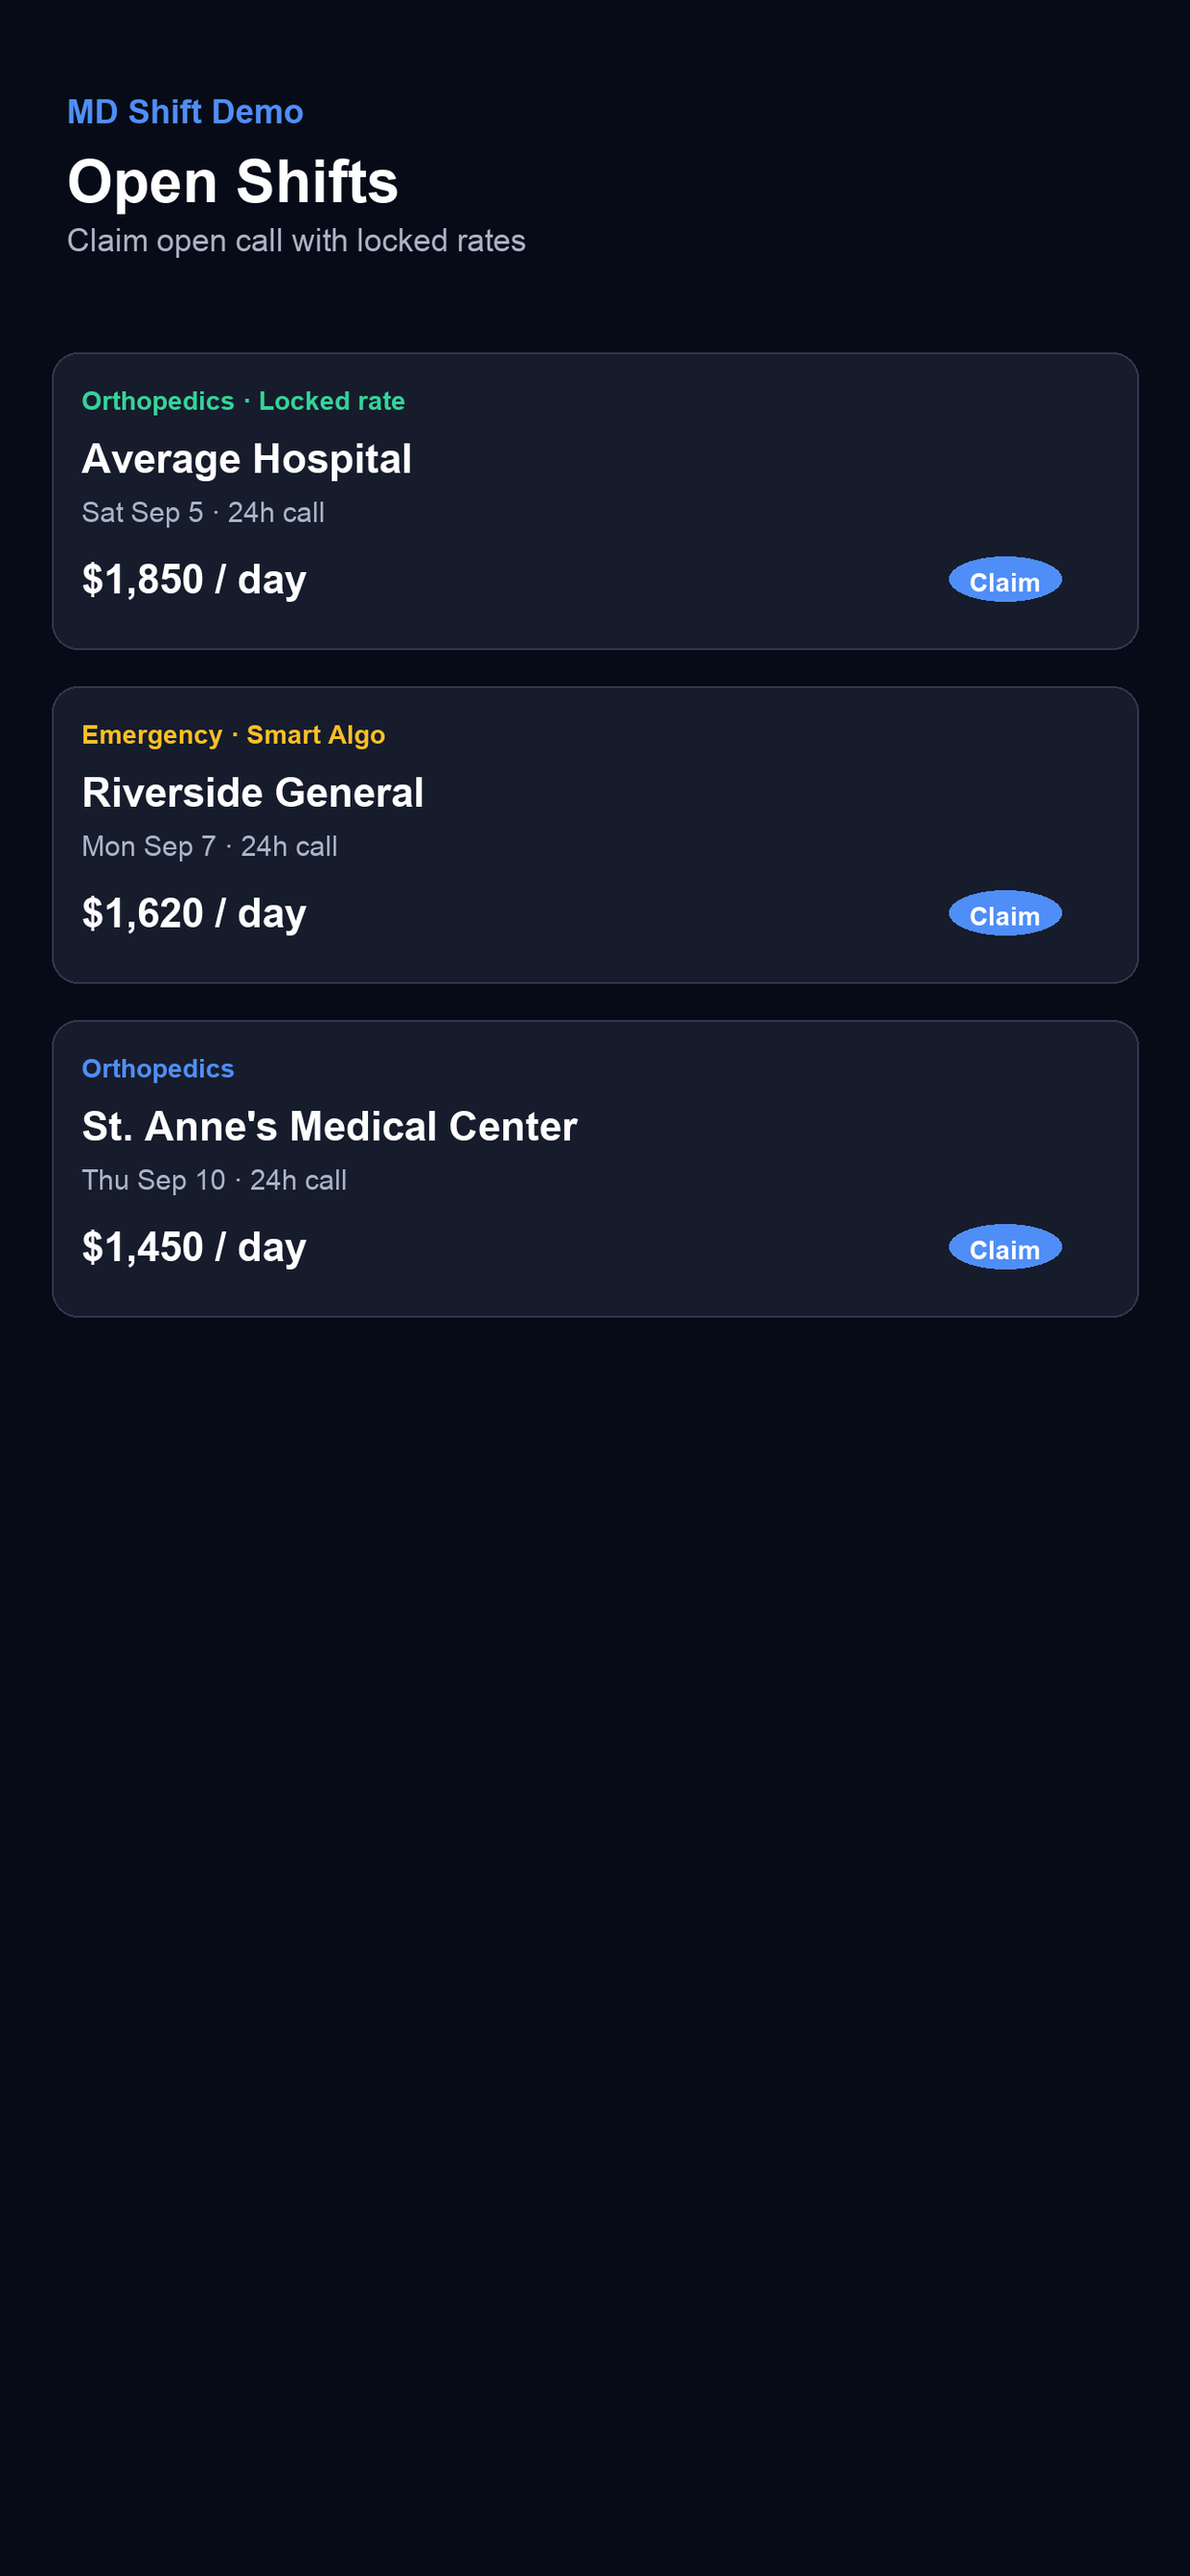
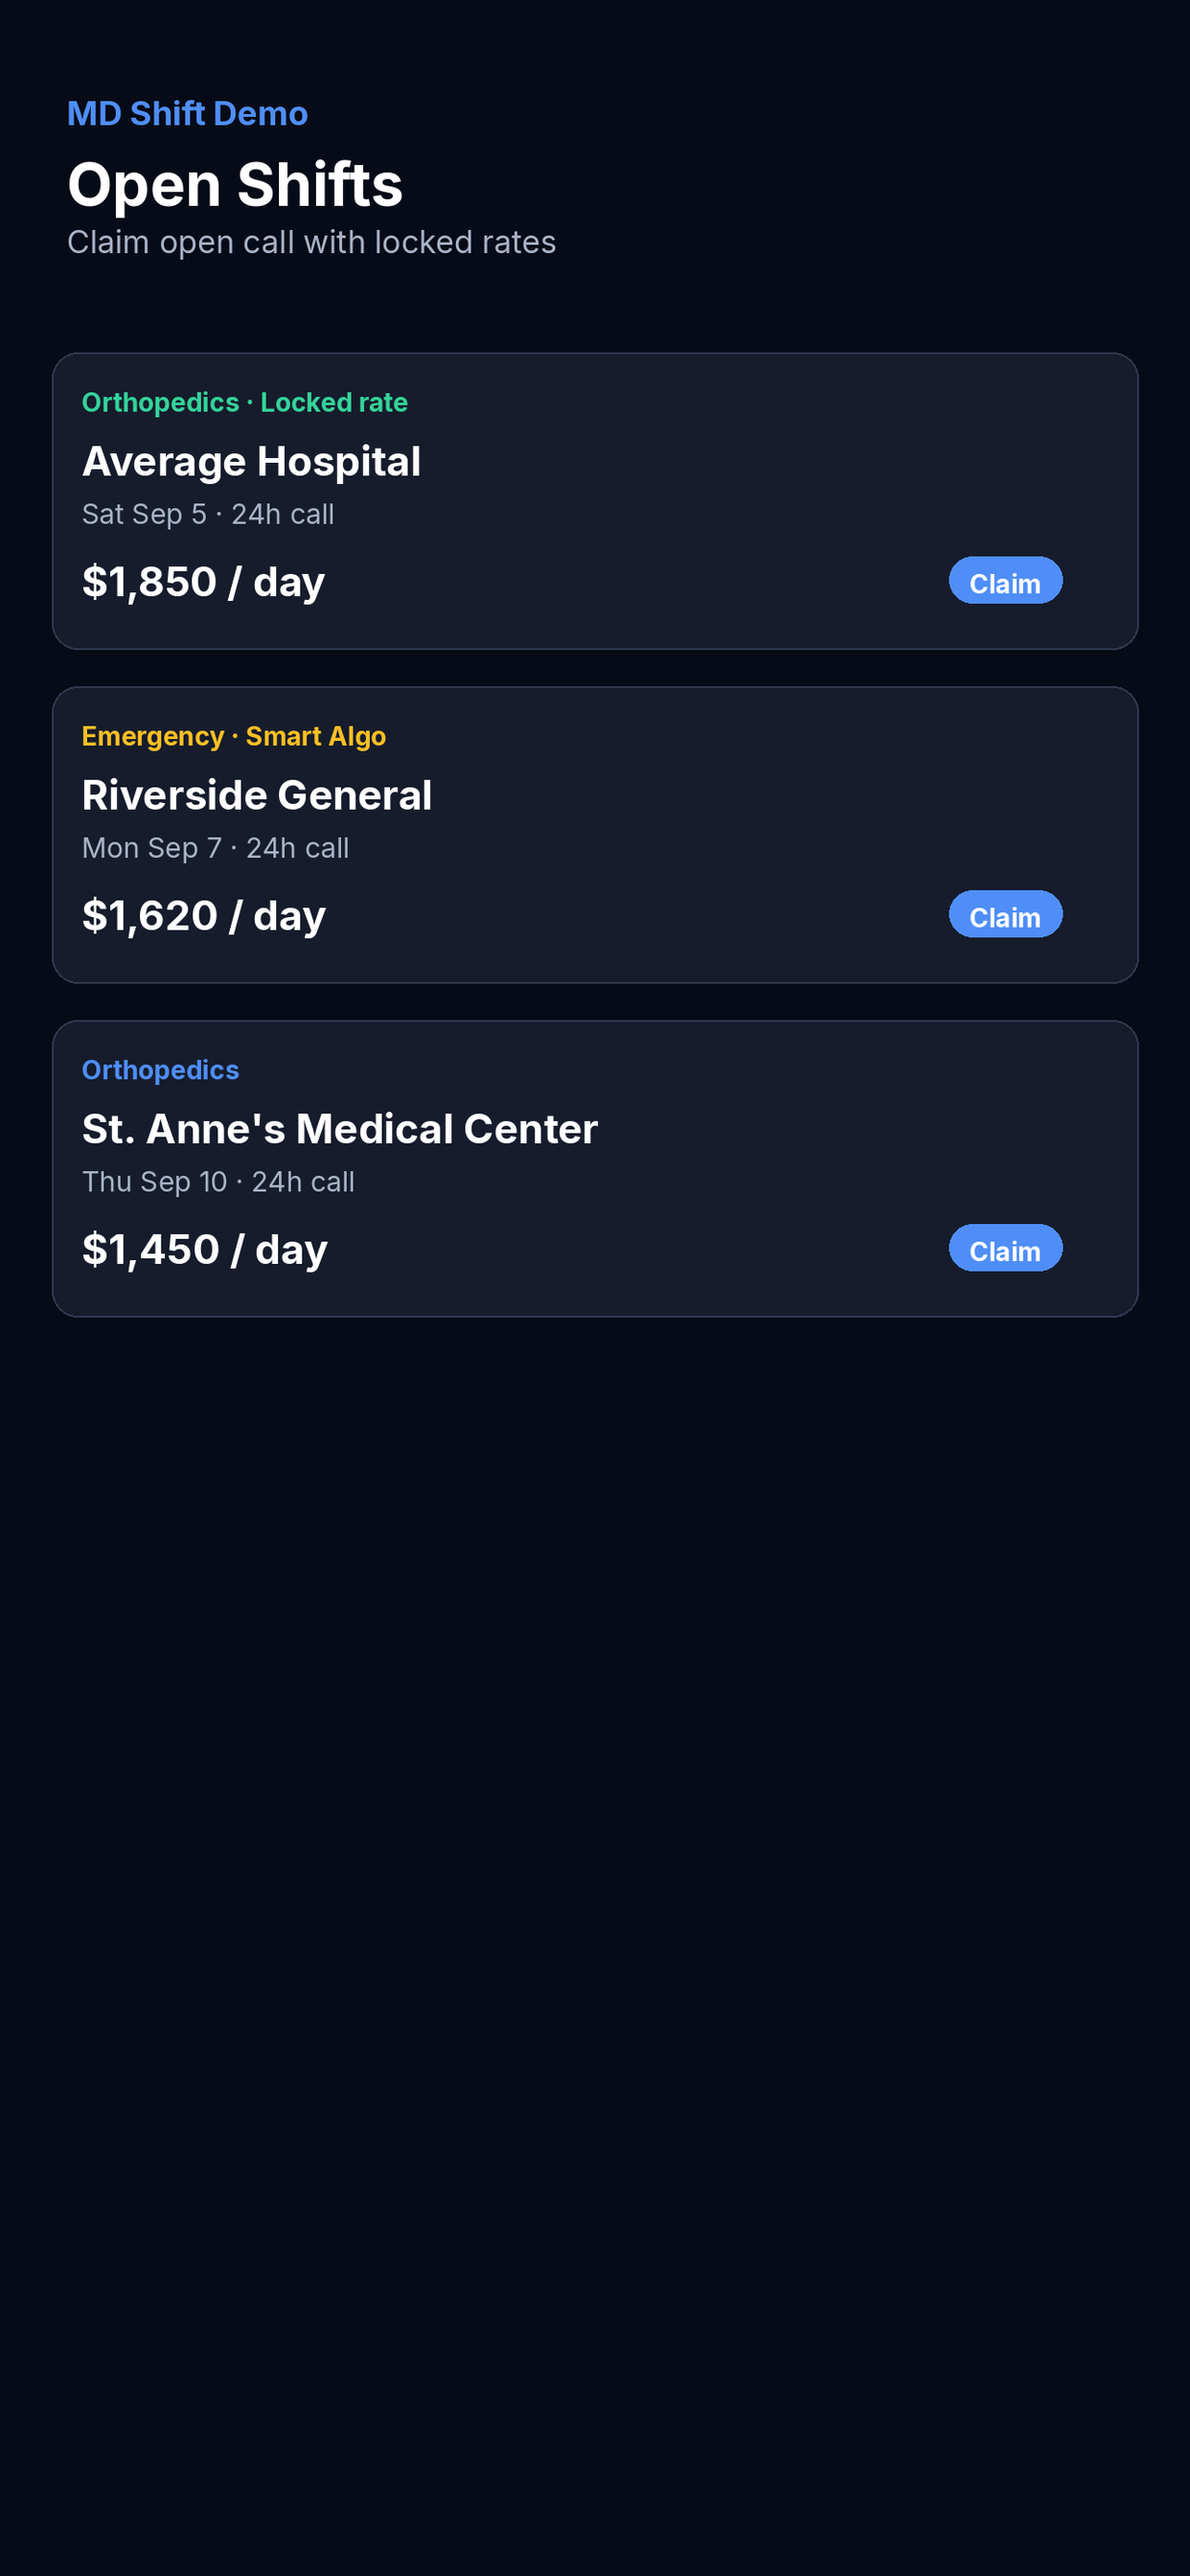
Restore clean iPad App Store screenshots for review.
Generate 2064×2752 and 2048×2732 without status-bar chrome, sync the 1284×2778 set into docs, and document Media Manager iPad replacement steps.

diff --git a/scripts/generate-app-store-screenshots.py b/scripts/generate-app-store-screenshots.py
@@ -1,20 +1,27 @@
 #!/usr/bin/env python3
-"""Generate App Store Connect–valid iPhone 6.5" screenshots (1284 × 2778).
+"""Generate App Store Connect–valid screenshots (no mock status bar).
+
+iPhone 6.5": 1284 × 2778 (optional 1242 × 2688)
+iPad 13":    2064 × 2752 (and 2048 × 2732)
 
 Usage:
   python3 scripts/generate-app-store-screenshots.py
-  python3 scripts/generate-app-store-screenshots.py --also-1242
+  python3 scripts/generate-app-store-screenshots.py --also-1242 --ipad --iphone
 """
 
 from __future__ import annotations
 
 import argparse
+import shutil
 from pathlib import Path
 
 from PIL import Image, ImageDraw, ImageFont
 
 W, H = 1284, 2778
 W_ALT, H_ALT = 1242, 2688
+IPAD_W, IPAD_H = 2064, 2752
+IPAD_ALT_W, IPAD_ALT_H = 2048, 2732
+SCALE = 1.0
 
 BG = (7, 11, 23)
 SURFACE = (22, 28, 44)
@@ -30,13 +37,18 @@ TEXT3 = (110, 120, 145)
 
 ROOT = Path(__file__).resolve().parents[1]
 OUT = ROOT / "AppStoreScreenshots"
+DOCS = ROOT / "docs" / "app-store-screenshots"
 
 
 def font(size: int, bold: bool = False) -> ImageFont.FreeTypeFont:
+    size = max(18, int(round(size * SCALE)))
     candidates = [
         "/System/Library/Fonts/Supplemental/Arial Bold.ttf" if bold else "/System/Library/Fonts/Supplemental/Arial.ttf",
         "/System/Library/Fonts/Helvetica.ttc",
         "/Library/Fonts/Arial.ttf",
+        "/usr/share/fonts/truetype/macos/Inter-Bold.ttf" if bold else "/usr/share/fonts/truetype/macos/Inter-Regular.ttf",
+        "/usr/share/fonts/truetype/liberation/LiberationSans-Bold.ttf" if bold else "/usr/share/fonts/truetype/liberation/LiberationSans-Regular.ttf",
+        "/usr/share/fonts/truetype/dejavu/DejaVuSans-Bold.ttf" if bold else "/usr/share/fonts/truetype/dejavu/DejaVuSans.ttf",
     ]
     for path in candidates:
         try:
@@ -296,22 +308,62 @@ def shot_analytics(sizes):
     save(img, "06-analytics", sizes)
 
 
-def main():
-    parser = argparse.ArgumentParser()
-    parser.add_argument("--also-1242", action="store_true", help="Also write 1242×2688 variants")
-    args = parser.parse_args()
-    sizes = [(W, H)]
-    if args.also_1242:
-        sizes.append((W_ALT, H_ALT))
-
+def render_all(sizes: list[tuple[int, int]]) -> None:
     shot_doctor_home(sizes)
     shot_open_shifts(sizes)
     shot_hospital(sizes)
     shot_alter(sizes)
     shot_approvals(sizes)
     shot_analytics(sizes)
-    print(f"\nUpload these to App Store Connect → iPhone 6.5\" display.")
-    print(f"Required: {W}×{H} (or {W_ALT}×{H_ALT}). Folder: {OUT}")
+
+
+def sync_docs_iphone() -> None:
+    """Keep the marketing site copy in lockstep with the clean 1284×2778 set."""
+    DOCS.mkdir(parents=True, exist_ok=True)
+    for src in sorted(OUT.glob("*-1284x2778.png")):
+        dest = DOCS / src.name
+        shutil.copy2(src, dest)
+        print(f"synced {dest}")
+
+
+def main():
+    global W, H, SCALE
+    parser = argparse.ArgumentParser()
+    parser.add_argument("--also-1242", action="store_true", help="Also write iPhone 1242×2688")
+    parser.add_argument("--iphone", action="store_true", help="Write iPhone sizes")
+    parser.add_argument("--ipad", action="store_true", help="Write iPad 13\" 2064×2752 (and 2048×2732)")
+    parser.add_argument("--skip-docs", action="store_true", help="Do not copy 1284×2778 into docs/app-store-screenshots")
+    args = parser.parse_args()
+
+    # Default: generate iPhone + iPad so ASC Media Manager can replace every slot.
+    do_iphone = args.iphone or not args.ipad
+    do_ipad = args.ipad or not args.iphone
+    if not args.iphone and not args.ipad:
+        do_iphone = True
+        do_ipad = True
+        args.also_1242 = True
+
+    if do_iphone:
+        W, H, SCALE = 1284, 2778, 1.0
+        sizes = [(W, H)]
+        if args.also_1242:
+            sizes.append((W_ALT, H_ALT))
+        render_all(sizes)
+        print(f"iPhone 6.5\": upload *-{W}x{H}.png")
+        if args.also_1242:
+            print(f"iPhone 5.5\" / 6.5\" alt: *-{W_ALT}x{H_ALT}.png")
+
+    if do_ipad:
+        W, H, SCALE = IPAD_W, IPAD_H, 1.35
+        render_all([(IPAD_W, IPAD_H), (IPAD_ALT_W, IPAD_ALT_H)])
+        print(f"iPad 13\": upload *-{IPAD_W}x{IPAD_H}.png (required if the app runs on iPad)")
+        print(f"iPad 12.9\" optional: *-{IPAD_ALT_W}x{IPAD_ALT_H}.png")
+
+    if do_iphone and not args.skip_docs:
+        sync_docs_iphone()
+
+    print(f"Folder: {OUT}")
+    print("No status-bar chrome (no 9:41 / signal / battery). Replace iPhone AND iPad slots in ASC Media Manager.")
 
 
 if __name__ == "__main__":

diff --git a/AppStore/REVIEW.md b/AppStore/REVIEW.md
@@ -1,6 +1,6 @@
 # MD Shift Demo — App Store review kit
 
-Paste these into App Store Connect. Screenshots live in `../AppStoreScreenshots/` (`*-1284x2778.png`).
+Paste these into App Store Connect. Screenshots live in `../AppStoreScreenshots/`: iPhone `*-1284x2778.png` and iPad `*-2064x2752.png` (plus `*-2048x2732.png`). None include status-bar chrome.
 
 ## Identity
 
@@ -77,7 +77,7 @@ Hi App Review team,
 Thanks for the follow-up on MD Shift Demo 1.0 (3).
 
 SCREENSHOTS (2.3.10)
-We replaced the App Store screenshots. The previous set had a mock status bar (text signal / battery). The new set has no status bar chrome and shows the in-app UI only. Please use the updated iPhone 6.5" assets (and View All Sizes in Media Manager if needed).
+We replaced the App Store screenshots for iPhone and iPad. The previous set had a mock status bar (text signal / battery). The new set has no status bar chrome and shows the in-app UI only. Please replace both iPhone 6.5" (1284×2778) and iPad 13" (2064×2752) slots — open Media Manager → View All Sizes so leftover 12.9" / 2048×2732 assets are replaced too.
 
 SIGN IN WITH APPLE (2.1a)
 Sign in with Apple is supported on iPhone and iPad. Choose Doctor or Hospital on the sign-in screen, then Continue with Apple.
@@ -96,8 +96,10 @@ Contact: erdunn706@gmail.com
 ## Fix checklist after Sept 2026 rejection
 
 ### Screenshots (2.3.10)
-1. Upload all `AppStoreScreenshots/*-1284x2778.png` to App Store Connect → Previews and Screenshots.
-2. Also open **View All Sizes in Media Manager** and replace any leftover sizes that still show a mock status bar.
+1. In App Store Connect → your version → **Previews and Screenshots**, open **View All Sizes in Media Manager**.
+2. Replace **iPhone** slots with `AppStoreScreenshots/*-1284x2778.png` (6.5"). Also replace 1242×2688 if that size is still listed.
+3. Replace **iPad** slots with `AppStoreScreenshots/*-2064x2752.png` (13"). If Media Manager still shows a 12.9" / 2048×2732 row, upload `*-2048x2732.png` there too.
+4. Confirm every remaining size has **no** mock status bar (no “9:41”, signal bars, or battery). ASC often keeps old iPad assets after only the iPhone set is updated.
 
 ### Sign in with Apple (2.1a) — Supabase dashboard (required)
 Native Apple tokens use the **Bundle ID** as audience. In Supabase:
@@ -108,6 +110,8 @@ Native Apple tokens use the **Bundle ID** as audience. In Supabase:
 3. Secret JWT must be valid if web Apple is enabled (regenerate if older than ~6 months)
 4. Apple Developer → Identifiers → App ID `com.eporthospine.mdshift` → Sign In with Apple ON
 5. Rebuild / upload build **3**, then test Continue with Apple on an iPad simulator or device before resubmitting
+
+Native SIWA is already wired (`com.apple.developer.applesignin` = Default; `SignInWithAppleButton` sends a hashed nonce to `signInWithAppleIDToken`). The usual iPad review failure is missing **Bundle ID** in the Supabase Apple Client IDs list above — not a presentation-anchor bug. Do not ship iOS-only Client IDs.
 
 ## Demo account (App Review form)
 
@@ -142,7 +146,7 @@ Do **not** claim tracking unless you add ATT / ad SDKs.
 
 ## Screenshots
 
-Upload from `AppStoreScreenshots/`:
+Upload from `AppStoreScreenshots/` — **iPhone 6.5"** (1284×2778):
 
 1. `01-doctor-home-1284x2778.png`
 2. `02-open-shifts-1284x2778.png`
@@ -151,12 +155,25 @@ Upload from `AppStoreScreenshots/`:
 5. `05-approvals-1284x2778.png`
 6. `06-analytics-1284x2778.png`
 
-Use the **iPhone 6.5"** slot (1284×2778). Do not upload Simulator captures from iPhone 17 Pro Max.
+Then **iPad 13"** (2064×2752) — required because the app runs on iPad. Open **Media Manager → View All Sizes** and replace these slots (do not leave the old mock-status-bar iPad assets):
 
-Regenerate:
+1. `01-doctor-home-2064x2752.png`
+2. `02-open-shifts-2064x2752.png`
+3. `03-hospital-dashboard-2064x2752.png`
+4. `04-alter-rates-2064x2752.png`
+5. `05-approvals-2064x2752.png`
+6. `06-analytics-2064x2752.png`
+
+If Media Manager still lists **iPad 12.9"** (2048×2732), upload the matching `*-2048x2732.png` files from the same folder.
+
+Do not upload Simulator captures from iPhone 17 Pro Max.
+
+The marketing-site copies in `docs/app-store-screenshots/` are the same clean 1284×2778 set (no status bar).
+
+Regenerate (writes iPhone 1284 + 1242, iPad 2064 + 2048, and syncs docs):
 
 ```bash
-python3 scripts/generate-app-store-screenshots.py --also-1242
+python3 scripts/generate-app-store-screenshots.py
 ```
 
 ## Build & upload (no physical iPhone required)
